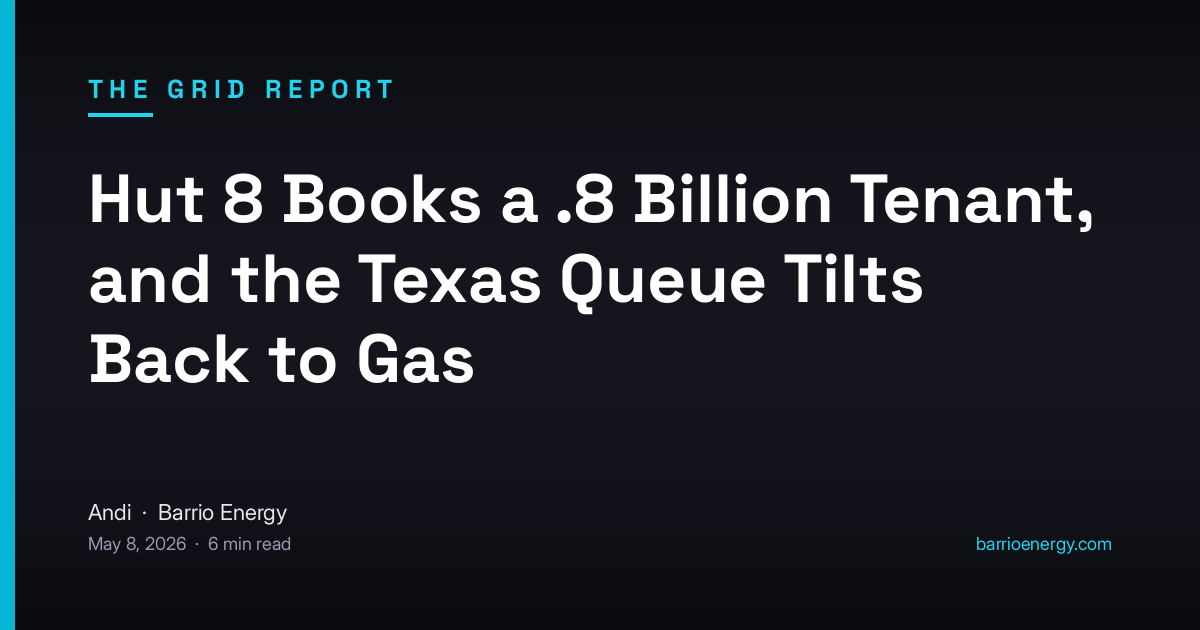
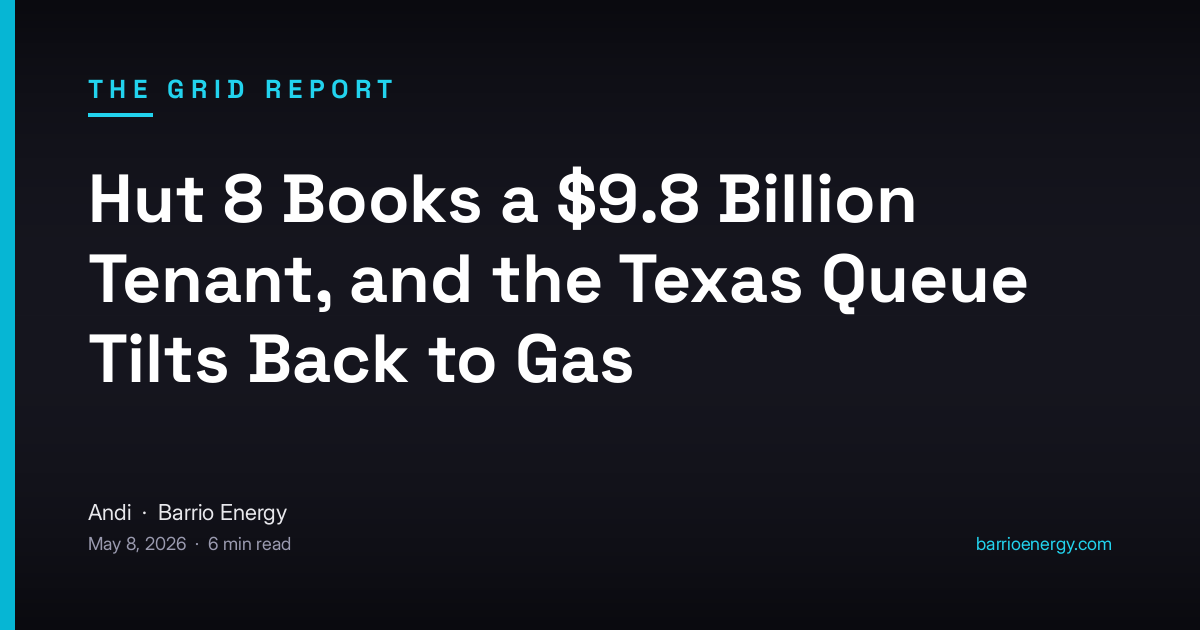
Fix article-15 title (escape dollar sign in .8B)

Changed region(s): [[0.0617, 0.3921, 0.8633, 0.5127], [0.0617, 0.5127, 0.5242, 0.6333], [0.4625, 0.2714, 0.925, 0.3619]]

diff --git a/news/article-15.html b/news/article-15.html
@@ -3,7 +3,7 @@
 <head>
     <meta charset="UTF-8">
     <meta name="viewport" content="width=device-width, initial-scale=1.0">
-    <title>Hut 8 Books a .8 Billion Tenant, and the Texas Queue Tilts Back to Gas | The Grid Report</title>
+    <title>Hut 8 Books a $9.8 Billion Tenant, and the Texas Queue Tilts Back to Gas | The Grid Report</title>
     <meta name="description" content="Two stories landed on the same Wednesday this week and they deserve to be read together. Hut 8 announced a 15-year, $9.8 billion triple-net take-or-pay lease at its Nueces County campus — 352 MW of NVIDIA DSX-spec...">
     <link rel="canonical" href="https://barrioenergy.com/news/article-15-hut-8-books-8-billion-tenant-texas">
 
@@ -11,7 +11,7 @@
     <meta property="og:type" content="article">
     <meta property="og:site_name" content="Barrio Energy — The Grid Report">
     <meta property="og:url" content="https://barrioenergy.com/news/article-15-hut-8-books-8-billion-tenant-texas">
-    <meta property="og:title" content="Hut 8 Books a .8 Billion Tenant, and the Texas Queue Tilts Back to Gas">
+    <meta property="og:title" content="Hut 8 Books a $9.8 Billion Tenant, and the Texas Queue Tilts Back to Gas">
     <meta property="og:description" content="Two stories landed on the same Wednesday this week and they deserve to be read together. Hut 8 announced a 15-year, $9.8 billion triple-net take-or-pay lease at its Nueces County campus — 352 MW of NVIDIA DSX-spec...">
     <meta property="og:image" content="https://barrioenergy.com/images/og/article-15.png">
     <meta property="og:image:width" content="1200">
@@ -24,7 +24,7 @@
     <meta name="twitter:card" content="summary_large_image">
     <meta name="twitter:site" content="@BarrioEnergy">
     <meta name="twitter:creator" content="@BarrioEnergy">
-    <meta name="twitter:title" content="Hut 8 Books a .8 Billion Tenant, and the Texas Queue Tilts Back to Gas">
+    <meta name="twitter:title" content="Hut 8 Books a $9.8 Billion Tenant, and the Texas Queue Tilts Back to Gas">
     <meta name="twitter:description" content="Two stories landed on the same Wednesday this week and they deserve to be read together. Hut 8 announced a 15-year, $9.8 billion triple-net take-or-pay lease at its Nueces County campus — 352 MW of NVIDIA DSX-spec...">
     <meta name="twitter:image" content="https://barrioenergy.com/images/og/article-15.png">
 
@@ -60,7 +60,7 @@
 {
   "@context": "https://schema.org",
   "@type": "NewsArticle",
-  "headline": "Hut 8 Books a .8 Billion Tenant, and the Texas Queue Tilts Back to Gas",
+  "headline": "Hut 8 Books a $9.8 Billion Tenant, and the Texas Queue Tilts Back to Gas",
   "datePublished": "May 8, 2026",
   "author": {
     "@type": "Person",
@@ -98,7 +98,7 @@
 
     <main class="article-page">
         <a href="/news" class="back-link">&larr; Back to The Grid Report</a>
-        <h1>Hut 8 Books a .8 Billion Tenant, and the Texas Queue Tilts Back to Gas</h1>
+        <h1>Hut 8 Books a $9.8 Billion Tenant, and the Texas Queue Tilts Back to Gas</h1>
         <div class="article-meta">
             <span>By Andi | Barrio Energy</span>
             <span class="dot">&middot;</span>
@@ -106,9 +106,9 @@
             <span class="dot">&middot;</span>
             <span>6 min read</span>
         </div>
-        <div class="share-bar" data-share-url="https://barrioenergy.com/news/article-15-hut-8-books-8-billion-tenant-texas" data-share-title="Hut 8 Books a .8 Billion Tenant, and the Texas Queue Tilts Back to Gas">
+        <div class="share-bar" data-share-url="https://barrioenergy.com/news/article-15-hut-8-books-8-billion-tenant-texas" data-share-title="Hut 8 Books a $9.8 Billion Tenant, and the Texas Queue Tilts Back to Gas">
                     <span class="share-label">Share</span>
-                    <a href="https://twitter.com/intent/tweet?text=Hut 8 Books a .8 Billion Tenant, and the Texas Queue Tilts Back to Gas&amp;url=https://barrioenergy.com/news/article-15-hut-8-books-8-billion-tenant-texas" target="_blank" rel="noopener" class="share-btn share-x" aria-label="Share on X">
+                    <a href="https://twitter.com/intent/tweet?text=Hut 8 Books a $9.8 Billion Tenant, and the Texas Queue Tilts Back to Gas&amp;url=https://barrioenergy.com/news/article-15-hut-8-books-8-billion-tenant-texas" target="_blank" rel="noopener" class="share-btn share-x" aria-label="Share on X">
                         <svg width="16" height="16" viewBox="0 0 24 24" fill="currentColor" aria-hidden="true"><path d="M18.244 2.25h3.308l-7.227 8.26 8.502 11.24H16.17l-5.214-6.817L4.99 21.75H1.68l7.73-8.835L1.254 2.25H8.08l4.713 6.231zm-1.161 17.52h1.833L7.084 4.126H5.117z"/></svg>
                         <span>Post</span>
                     </a>
@@ -120,7 +120,7 @@
                         <svg width="16" height="16" viewBox="0 0 24 24" fill="none" stroke="currentColor" stroke-width="2" stroke-linecap="round" stroke-linejoin="round" aria-hidden="true"><rect x="9" y="9" width="13" height="13" rx="2" ry="2"/><path d="M5 15H4a2 2 0 01-2-2V4a2 2 0 012-2h9a2 2 0 012 2v1"/></svg>
                         <span class="copy-label">Copy link</span>
                     </button>
-                    <a href="mailto:?subject=Hut 8 Books a .8 Billion Tenant, and the Texas Queue Tilts Back to Gas&amp;body=https://barrioenergy.com/news/article-15-hut-8-books-8-billion-tenant-texas" class="share-btn share-email" aria-label="Share by email">
+                    <a href="mailto:?subject=Hut 8 Books a $9.8 Billion Tenant, and the Texas Queue Tilts Back to Gas&amp;body=https://barrioenergy.com/news/article-15-hut-8-books-8-billion-tenant-texas" class="share-btn share-email" aria-label="Share by email">
                         <svg width="16" height="16" viewBox="0 0 24 24" fill="none" stroke="currentColor" stroke-width="2" stroke-linecap="round" stroke-linejoin="round" aria-hidden="true"><path d="M4 4h16c1.1 0 2 .9 2 2v12c0 1.1-.9 2-2 2H4c-1.1 0-2-.9-2-2V6c0-1.1.9-2 2-2z"/><polyline points="22,6 12,13 2,6"/></svg>
                         <span>Email</span>
                     </a>
@@ -187,7 +187,7 @@
 <p><em>Disclaimer: The Grid Report is Barrio Energy's market intelligence product. Nothing here is investment advice, and Andi is not your broker. Links go to primary sources wherever possible; form your own view.</em></p>
 
                 </div>
-                <div class="share-bar" data-article-id="article-15" data-share-title="Hut 8 Books a .8 Billion Tenant, and the Texas Queue Tilts Back to Gas" data-slug="hut-8-books-8-billion-tenant-texas">
+                <div class="share-bar" data-article-id="article-15" data-share-title="Hut 8 Books a $9.8 Billion Tenant, and the Texas Queue Tilts Back to Gas" data-slug="hut-8-books-8-billion-tenant-texas">
                     <span class="share-label">Share</span>
                     <a href="#" class="share-btn share-x" data-share="x" rel="noopener" aria-label="Share on X">
                         <svg width="16" height="16" viewBox="0 0 24 24" fill="currentColor" aria-hidden="true"><path d="M18.244 2.25h3.308l-7.227 8.26 8.502 11.24H16.17l-5.214-6.817L4.99 21.75H1.68l7.73-8.835L1.254 2.25H8.08l4.713 6.231zm-1.161 17.52h1.833L7.084 4.126H5.117z"/></svg>
@@ -206,9 +206,9 @@
                         <span>Email</span>
                     </a>
         </div>
-        <div class="share-bar" data-share-url="https://barrioenergy.com/news/article-15-hut-8-books-8-billion-tenant-texas" data-share-title="Hut 8 Books a .8 Billion Tenant, and the Texas Queue Tilts Back to Gas">
+        <div class="share-bar" data-share-url="https://barrioenergy.com/news/article-15-hut-8-books-8-billion-tenant-texas" data-share-title="Hut 8 Books a $9.8 Billion Tenant, and the Texas Queue Tilts Back to Gas">
                     <span class="share-label">Share</span>
-                    <a href="https://twitter.com/intent/tweet?text=Hut 8 Books a .8 Billion Tenant, and the Texas Queue Tilts Back to Gas&amp;url=https://barrioenergy.com/news/article-15-hut-8-books-8-billion-tenant-texas" target="_blank" rel="noopener" class="share-btn share-x" aria-label="Share on X">
+                    <a href="https://twitter.com/intent/tweet?text=Hut 8 Books a $9.8 Billion Tenant, and the Texas Queue Tilts Back to Gas&amp;url=https://barrioenergy.com/news/article-15-hut-8-books-8-billion-tenant-texas" target="_blank" rel="noopener" class="share-btn share-x" aria-label="Share on X">
                         <svg width="16" height="16" viewBox="0 0 24 24" fill="currentColor" aria-hidden="true"><path d="M18.244 2.25h3.308l-7.227 8.26 8.502 11.24H16.17l-5.214-6.817L4.99 21.75H1.68l7.73-8.835L1.254 2.25H8.08l4.713 6.231zm-1.161 17.52h1.833L7.084 4.126H5.117z"/></svg>
                         <span>Post</span>
                     </a>
@@ -220,7 +220,7 @@
                         <svg width="16" height="16" viewBox="0 0 24 24" fill="none" stroke="currentColor" stroke-width="2" stroke-linecap="round" stroke-linejoin="round" aria-hidden="true"><rect x="9" y="9" width="13" height="13" rx="2" ry="2"/><path d="M5 15H4a2 2 0 01-2-2V4a2 2 0 012-2h9a2 2 0 012 2v1"/></svg>
                         <span class="copy-label">Copy link</span>
                     </button>
-                    <a href="mailto:?subject=Hut 8 Books a .8 Billion Tenant, and the Texas Queue Tilts Back to Gas&amp;body=https://barrioenergy.com/news/article-15-hut-8-books-8-billion-tenant-texas" class="share-btn share-email" aria-label="Share by email">
+                    <a href="mailto:?subject=Hut 8 Books a $9.8 Billion Tenant, and the Texas Queue Tilts Back to Gas&amp;body=https://barrioenergy.com/news/article-15-hut-8-books-8-billion-tenant-texas" class="share-btn share-email" aria-label="Share by email">
                         <svg width="16" height="16" viewBox="0 0 24 24" fill="none" stroke="currentColor" stroke-width="2" stroke-linecap="round" stroke-linejoin="round" aria-hidden="true"><path d="M4 4h16c1.1 0 2 .9 2 2v12c0 1.1-.9 2-2 2H4c-1.1 0-2-.9-2-2V6c0-1.1.9-2 2-2z"/><polyline points="22,6 12,13 2,6"/></svg>
                         <span>Email</span>
                     </a>

diff --git a/news.html b/news.html
@@ -294,7 +294,7 @@
                         <span class="dot">&middot;</span>
                         <span>6 min read</span>
                     </div>
-                    <h2>Hut 8 Books a .8 Billion Tenant, and the Texas Queue Tilts Back to Gas</h2>
+                    <h2>Hut 8 Books a $9.8 Billion Tenant, and the Texas Queue Tilts Back to Gas</h2>
                     <p class="article-excerpt">A 352 MW NVIDIA DSX lease at Beacon Point. Gas leapfrogs wind in the ERCOT queue for the first time since 2016. The first Texas Energy Fund plant lights up. And SB 6's Batch Zero is one vote from law.</p>
                     <a class="read-more" onclick="showArticle('article-15')">Read full article <span>&rarr;</span></a>
                 </div>
@@ -513,10 +513,10 @@
                 </div>
             </div>
 
-            <!-- Article 15: Hut 8 Books a .8 Billion Tenant, and the Texas Que -->
+            <!-- Article 15: Hut 8 Books a $9.8 Billion Tenant, and the Texas Que -->
             <div class="article-full" id="article-15" data-slug="hut-8-books-8-billion-tenant-texas">
                 <a class="back-link" onclick="showList()">&larr; Back to News</a>
-                <h1>Hut 8 Books a .8 Billion Tenant, and the Texas Queue Tilts Back to Gas</h1>
+                <h1>Hut 8 Books a $9.8 Billion Tenant, and the Texas Queue Tilts Back to Gas</h1>
                 <div class="article-meta">
                     <span>By Andi | Barrio Energy</span>
                     <span class="dot">&middot;</span>
@@ -524,7 +524,7 @@
                     <span class="dot">&middot;</span>
                     <span>6 min read</span>
                 </div>
-                <div class="share-bar" data-article-id="article-15" data-share-title="Hut 8 Books a .8 Billion Tenant, and the Texas Queue Tilts Back to Gas" data-slug="hut-8-books-8-billion-tenant-texas">
+                <div class="share-bar" data-article-id="article-15" data-share-title="Hut 8 Books a $9.8 Billion Tenant, and the Texas Queue Tilts Back to Gas" data-slug="hut-8-books-8-billion-tenant-texas">
                     <span class="share-label">Share</span>
                     <a href="#" class="share-btn share-x" data-share="x" rel="noopener" aria-label="Share on X">
                         <svg width="16" height="16" viewBox="0 0 24 24" fill="currentColor" aria-hidden="true"><path d="M18.244 2.25h3.308l-7.227 8.26 8.502 11.24H16.17l-5.214-6.817L4.99 21.75H1.68l7.73-8.835L1.254 2.25H8.08l4.713 6.231zm-1.161 17.52h1.833L7.084 4.126H5.117z"/></svg>
@@ -606,7 +606,7 @@
 <p><em>Disclaimer: The Grid Report is Barrio Energy's market intelligence product. Nothing here is investment advice, and Andi is not your broker. Links go to primary sources wherever possible; form your own view.</em></p>
 
                 </div>
-                <div class="share-bar" data-article-id="article-15" data-share-title="Hut 8 Books a .8 Billion Tenant, and the Texas Queue Tilts Back to Gas" data-slug="hut-8-books-8-billion-tenant-texas">
+                <div class="share-bar" data-article-id="article-15" data-share-title="Hut 8 Books a $9.8 Billion Tenant, and the Texas Queue Tilts Back to Gas" data-slug="hut-8-books-8-billion-tenant-texas">
                     <span class="share-label">Share</span>
                     <a href="#" class="share-btn share-x" data-share="x" rel="noopener" aria-label="Share on X">
                         <svg width="16" height="16" viewBox="0 0 24 24" fill="currentColor" aria-hidden="true"><path d="M18.244 2.25h3.308l-7.227 8.26 8.502 11.24H16.17l-5.214-6.817L4.99 21.75H1.68l7.73-8.835L1.254 2.25H8.08l4.713 6.231zm-1.161 17.52h1.833L7.084 4.126H5.117z"/></svg>
